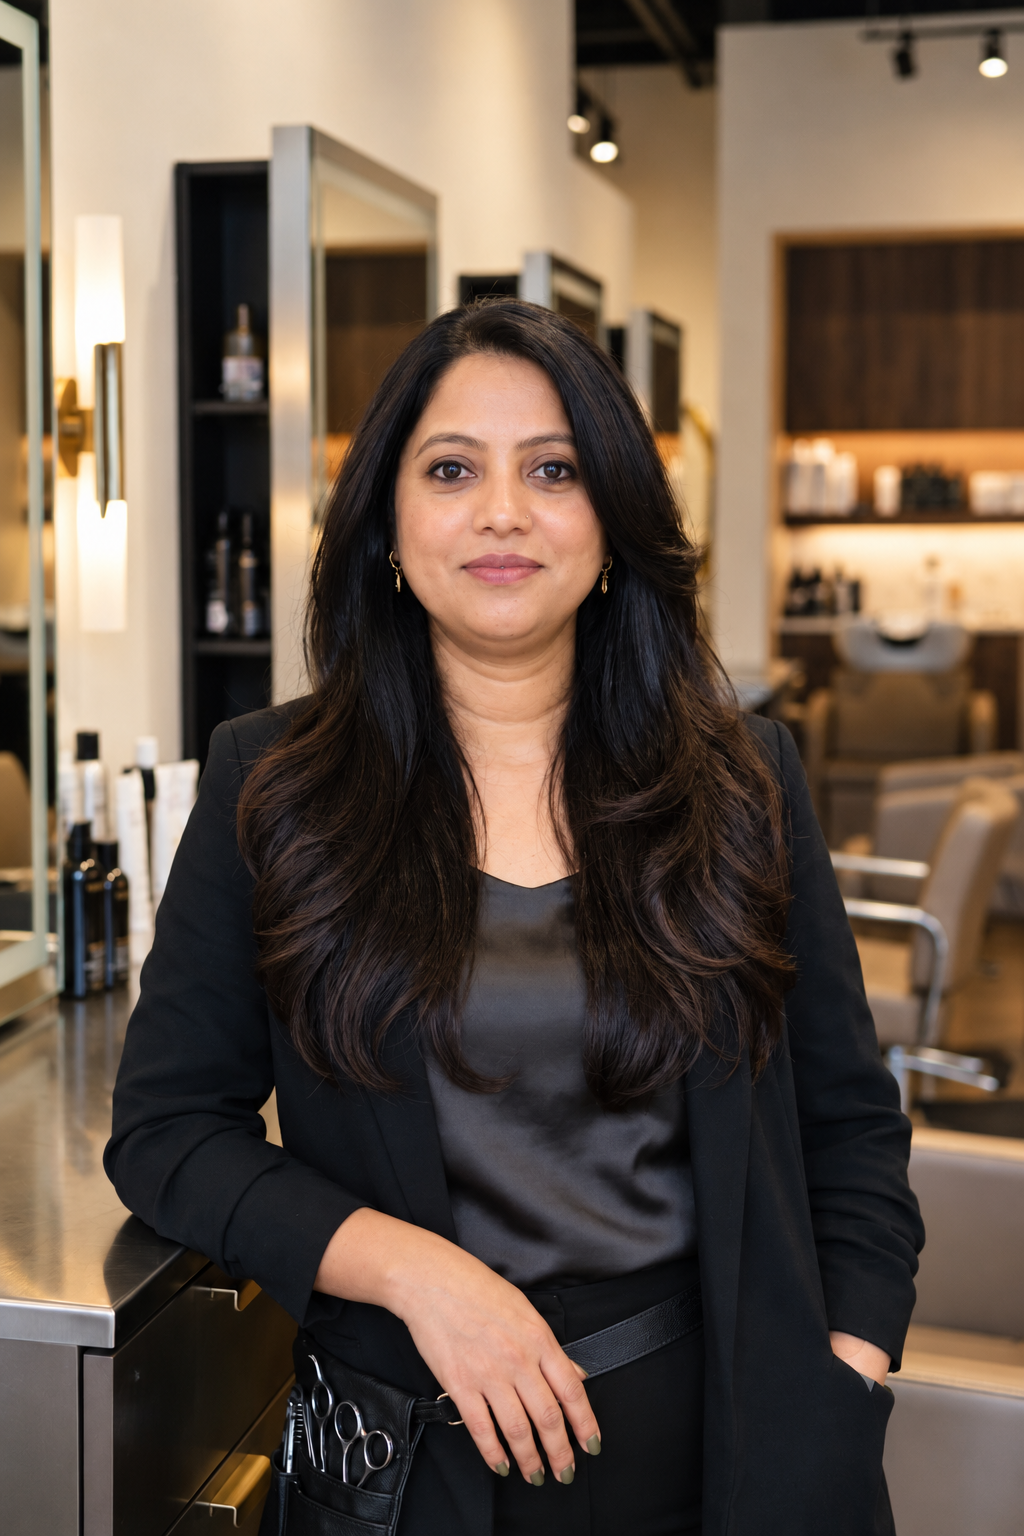
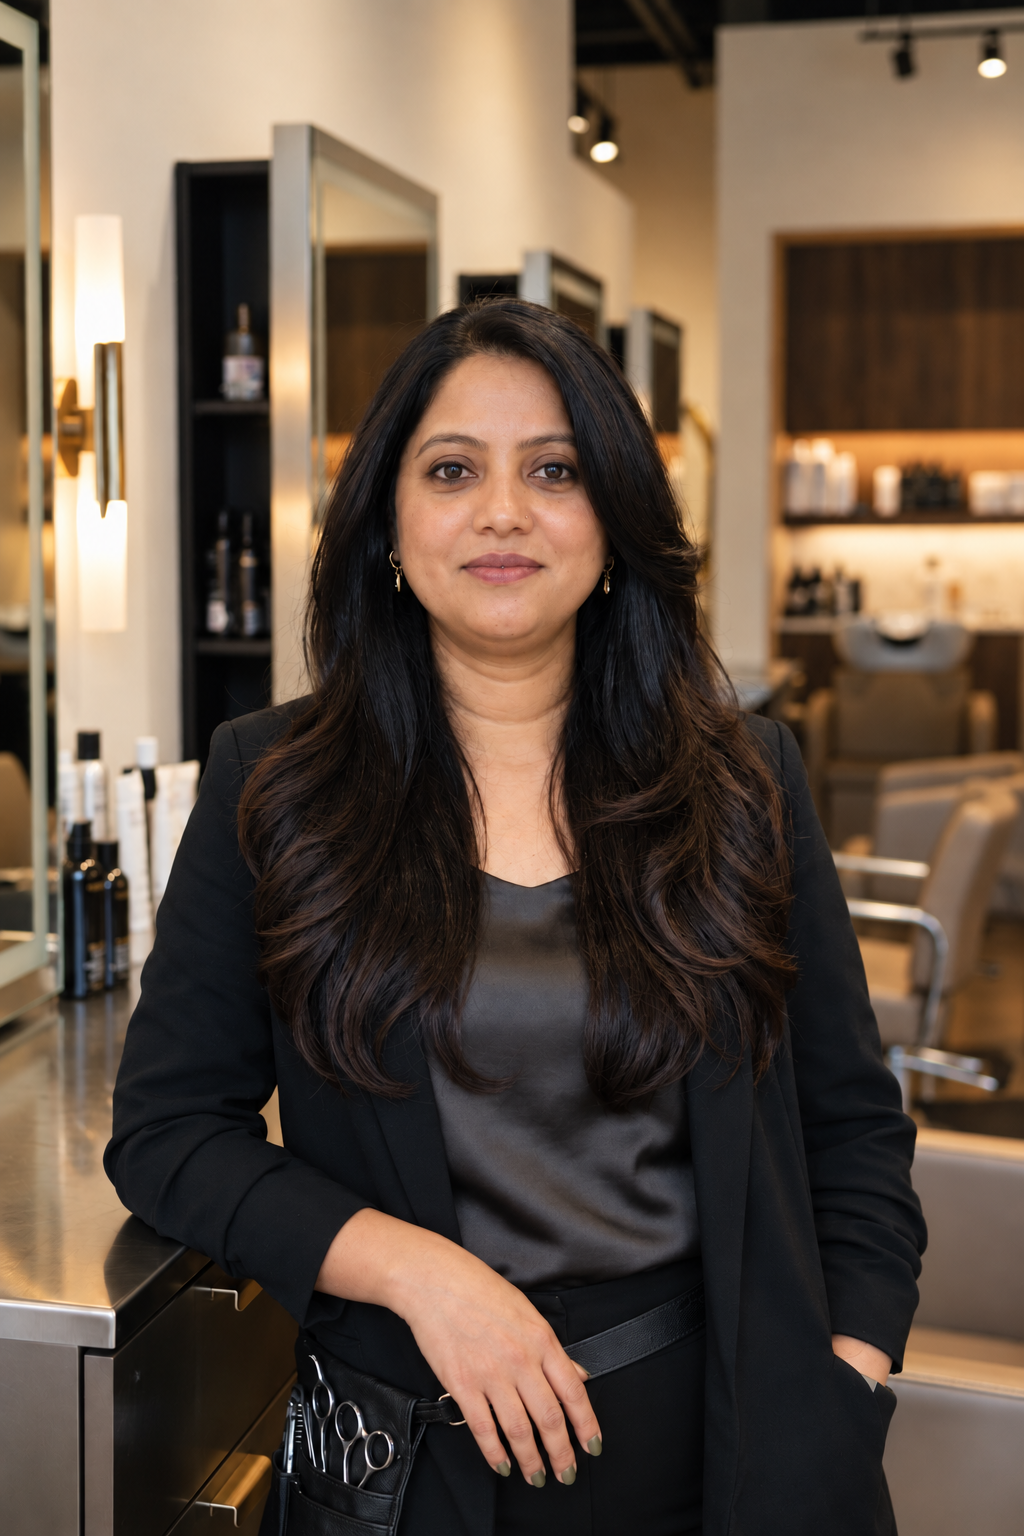
feat: update index.html metadata, enhance OffersPopup with contact options, and improve Offers page layout

diff --git a/src/components/OffersPopup.tsx b/src/components/OffersPopup.tsx
@@ -1,29 +1,25 @@
 import { useState, useEffect } from "react";
 import { Link } from "react-router-dom";
-import { X, CalendarDays, Sparkles } from "lucide-react";
+import { X, CalendarDays, Sparkles, Phone, MessageCircle } from "lucide-react";
 import { offersData, Offer } from "@/data/offers";
 
 const OffersPopup = () => {
   const [isVisible, setIsVisible] = useState(false);
   const [shouldRender, setShouldRender] = useState(false);
   const [selectedOffer, setSelectedOffer] = useState<Offer | null>(null);
+  const [showContactOptions, setShowContactOptions] = useState(false);
 
   useEffect(() => {
-    const hasSeenPopup = sessionStorage.getItem("hasSeenOffersPopup");
-    
-    if (!hasSeenPopup) {
-      // Pick random offer
-      const randomIndex = Math.floor(Math.random() * offersData.length);
-      setSelectedOffer(offersData[randomIndex]);
+    // Pick a random offer every time the page loads so the popup appears on refresh.
+    const randomIndex = Math.floor(Math.random() * offersData.length);
+    setSelectedOffer(offersData[randomIndex]);
 
-      const timer = setTimeout(() => {
-        setShouldRender(true);
-        setTimeout(() => setIsVisible(true), 50);
-        sessionStorage.setItem("hasSeenOffersPopup", "true");
-      }, 2500);
-      
-      return () => clearTimeout(timer);
-    }
+    const timer = setTimeout(() => {
+      setShouldRender(true);
+      setTimeout(() => setIsVisible(true), 50);
+    }, 2500);
+
+    return () => clearTimeout(timer);
   }, []);
 
   const closePopup = () => {
@@ -138,14 +134,43 @@ const OffersPopup = () => {
           </div>
 
           {/* CTA */}
-          <Link 
-            to="/contact#book-appointment"
-            onClick={closePopup}
-            className="w-full bg-[#1a1c1d] hover:bg-black text-white rounded-full py-4 flex items-center justify-center gap-3 tracking-[0.2em] text-[0.75rem] transition-all duration-300 mb-4 shadow-md"
-            style={{ textDecoration: "none" }}
-          >
-            BOOK NOW <span className="transition-transform duration-300 hover:translate-x-1">→</span>
-          </Link>
+          {!showContactOptions ? (
+            <div className="flex gap-3 mb-4">
+              <button 
+                onClick={() => setShowContactOptions(true)}
+                className="flex-1 bg-[#1a1c1d] hover:bg-black text-white rounded-full py-4 flex items-center justify-center gap-3 tracking-[0.18em] text-[0.7rem] transition-all duration-300 shadow-md"
+              >
+                BOOK NOW <span className="transition-transform duration-300 hover:translate-x-1">→</span>
+              </button>
+              <Link
+                to="/offers"
+                onClick={closePopup}
+                className="flex-1 border border-[#d9c8b6] bg-[#f5efe8] text-[#2a1d25] hover:bg-[#efe5db] rounded-full py-4 flex items-center justify-center gap-2 tracking-[0.18em] text-[0.7rem] transition-all duration-300 shadow-sm"
+                style={{ textDecoration: "none" }}
+              >
+                MORE INFO
+              </Link>
+            </div>
+          ) : (
+            <div className="flex gap-3 mb-4">
+              <a 
+                href="tel:+919650061103"
+                onClick={closePopup}
+                className="flex-1 bg-[#1a1c1d] hover:bg-black text-white rounded-full py-3.5 flex items-center justify-center gap-2 tracking-widest text-[0.65rem] transition-all duration-300 shadow-md"
+              >
+                <Phone size={14} /> CALL
+              </a>
+              <a 
+                href={`https://wa.me/919650061103?text=${encodeURIComponent(`Hi, I would like to book the ${selectedOffer.title} offer.`)}`}
+                onClick={closePopup}
+                target="_blank"
+                rel="noopener noreferrer"
+                className="flex-1 bg-[#25D366] hover:bg-[#1ebd5a] text-white rounded-full py-3.5 flex items-center justify-center gap-2 tracking-widest text-[0.65rem] transition-all duration-300 shadow-md"
+              >
+                <MessageCircle size={14} /> WHATSAPP
+              </a>
+            </div>
+          )}
           
           <div className="text-center text-[0.65rem] text-gray-400 uppercase tracking-widest font-medium flex items-center justify-center gap-1.5">
             <CalendarDays size={12} className="opacity-70" /> {selectedOffer.validity}

diff --git a/dist/index.html b/dist/index.html
@@ -4,9 +4,10 @@
 <head>
   <meta charset="UTF-8" />
   <meta name="viewport" content="width=device-width, initial-scale=1.0" />
-  <title>Priyanka Makeover - Premium Bridal & Beauty Services</title>
+  <title>Priyanka Makeover | Bridal Makeup & Beauty Parlour in Manesar, Gurugram</title>
   <meta name="description"
-    content="Priyanka Makeover offers premium bridal makeup, facials, hair treatments, waxing, and nail services in Manesar, Gurugram. Enhancing your natural beauty with professional care." />
+    content="Priyanka Makeover is a premium beauty parlour in Manesar, Gurugram, offering bridal makeup, facials, hair treatments, waxing, nail care and complete beauty services for every special occasion." />
+  <meta name="robots" content="index, follow" />
   <meta name="author" content="Priyanka Makeover" />
   <meta name="keywords"
     content="bridal makeup, beauty parlour, facial, hair treatment, waxing, nail services, Manesar, Gurugram, beauty salon" />
@@ -18,21 +19,22 @@
     href="https://fonts.googleapis.com/css2?family=Playfair+Display:ital,wght@0,400;0,600;0,700;0,800;1,400;1,600&family=Cormorant+Garamond:ital,wght@0,300;0,400;0,600;1,300;1,400&display=swap"
     rel="stylesheet">
 
-  <meta property="og:title" content="Priyanka Makeover - Premium Bridal & Beauty Services" />
+  <meta property="og:title" content="Priyanka Makeover | Bridal Makeup & Beauty Parlour in Manesar, Gurugram" />
   <meta property="og:description"
-    content="Enhancing your natural beauty with professional bridal makeup, facials, hair treatments, and more in Manesar, Gurugram." />
+    content="Priyanka Makeover is a premium beauty parlour in Manesar, Gurugram, offering bridal makeup, facials, hair treatments, waxing, nail care and complete beauty services for every special occasion." />
   <meta property="og:type" content="website" />
   <meta property="og:image" content="/favicon.jpeg" />
+  <meta property="og:url" content="https://www.priyankamakeover.in/" />
 
   <meta name="twitter:card" content="summary_large_image" />
-  <meta name="twitter:title" content="Priyanka Makeover - Premium Bridal & Beauty Services" />
+  <meta name="twitter:title" content="Priyanka Makeover | Bridal Makeup & Beauty Parlour in Manesar, Gurugram" />
   <meta name="twitter:description"
-    content="Enhancing your natural beauty with professional bridal makeup, facials, hair treatments, and more in Manesar, Gurugram." />
+    content="Priyanka Makeover is a premium beauty parlour in Manesar, Gurugram, offering bridal makeup, facials, hair treatments, waxing, nail care and complete beauty services for every special occasion." />
   <meta name="twitter:image" content="/favicon.jpeg" />
 
-  <link rel="canonical" href="https://priyankamakeover.com" />
-  <script type="module" crossorigin src="/assets/index-D3SCsARI.js"></script>
-  <link rel="stylesheet" crossorigin href="/assets/index-BGkCHP4F.css">
+  <link rel="canonical" href="https://www.priyankamakeover.in/" />
+  <script type="module" crossorigin src="/assets/index-C3Kx6UjD.js"></script>
+  <link rel="stylesheet" crossorigin href="/assets/index-UZQuAp6D.css">
 </head>
 
 <body>

diff --git a/src/pages/Offers.tsx b/src/pages/Offers.tsx
@@ -160,14 +160,23 @@ const Offers = () => {
                             )}
                           </div>
 
-                          {/* Book Now Button */}
-                          <Link 
-                            to="/contact#book-appointment" 
-                            className="w-full bg-white/10 backdrop-blur-md border border-white/50 hover:bg-white/20 text-white rounded-full py-4 sm:py-5 flex items-center justify-center gap-3 tracking-[0.25em] text-[0.8rem] font-medium transition-all duration-300 hover:shadow-[0_0_20px_rgba(255,255,255,0.2)] mb-5"
-                            style={{ textDecoration: "none" }}
-                          >
-                            BOOK NOW <span className="transition-transform duration-300 group-hover:translate-x-1">→</span>
-                          </Link>
+                          {/* Book Now & More Info Buttons */}
+                          <div className="flex gap-3 mb-5">
+                            <Link 
+                              to="/contact#book-appointment" 
+                              className="flex-1 bg-white/10 backdrop-blur-md border border-white/50 hover:bg-white/20 text-white rounded-full py-4 sm:py-5 flex items-center justify-center gap-3 tracking-[0.2em] text-[0.72rem] font-medium transition-all duration-300 hover:shadow-[0_0_20px_rgba(255,255,255,0.2)]"
+                              style={{ textDecoration: "none" }}
+                            >
+                              BOOK NOW <span className="transition-transform duration-300 group-hover:translate-x-1">→</span>
+                            </Link>
+                            <Link
+                              to="/offers"
+                              className="flex-1 bg-white/5 backdrop-blur-sm border border-white/30 hover:bg-white/10 text-white rounded-full py-4 sm:py-5 flex items-center justify-center gap-2 tracking-[0.2em] text-[0.72rem] font-medium transition-all duration-300"
+                              style={{ textDecoration: "none" }}
+                            >
+                              MORE INFO
+                            </Link>
+                          </div>
 
                           {/* Footer: Validity */}
                           <div className="flex justify-center items-center">

diff --git a/src/pages/Index.tsx b/src/pages/Index.tsx
@@ -426,7 +426,7 @@ const WhySection = () => {
 const StatsBar = () => {
   const stats = [
     { target: 15, suffix: "+", label: "Years of expertise", decimals: 0 },
-    { target: 1500, suffix: "+", label: "Happy brides", decimals: 0 },
+    { target: 1500, suffix: "+", label: "Happy Clients", decimals: 0 },
     { target: 4.9, suffix: "", label: "Average rating", decimals: 1 },
     { target: 30, suffix: "+", label: "Beauty services", decimals: 0 },
   ];
